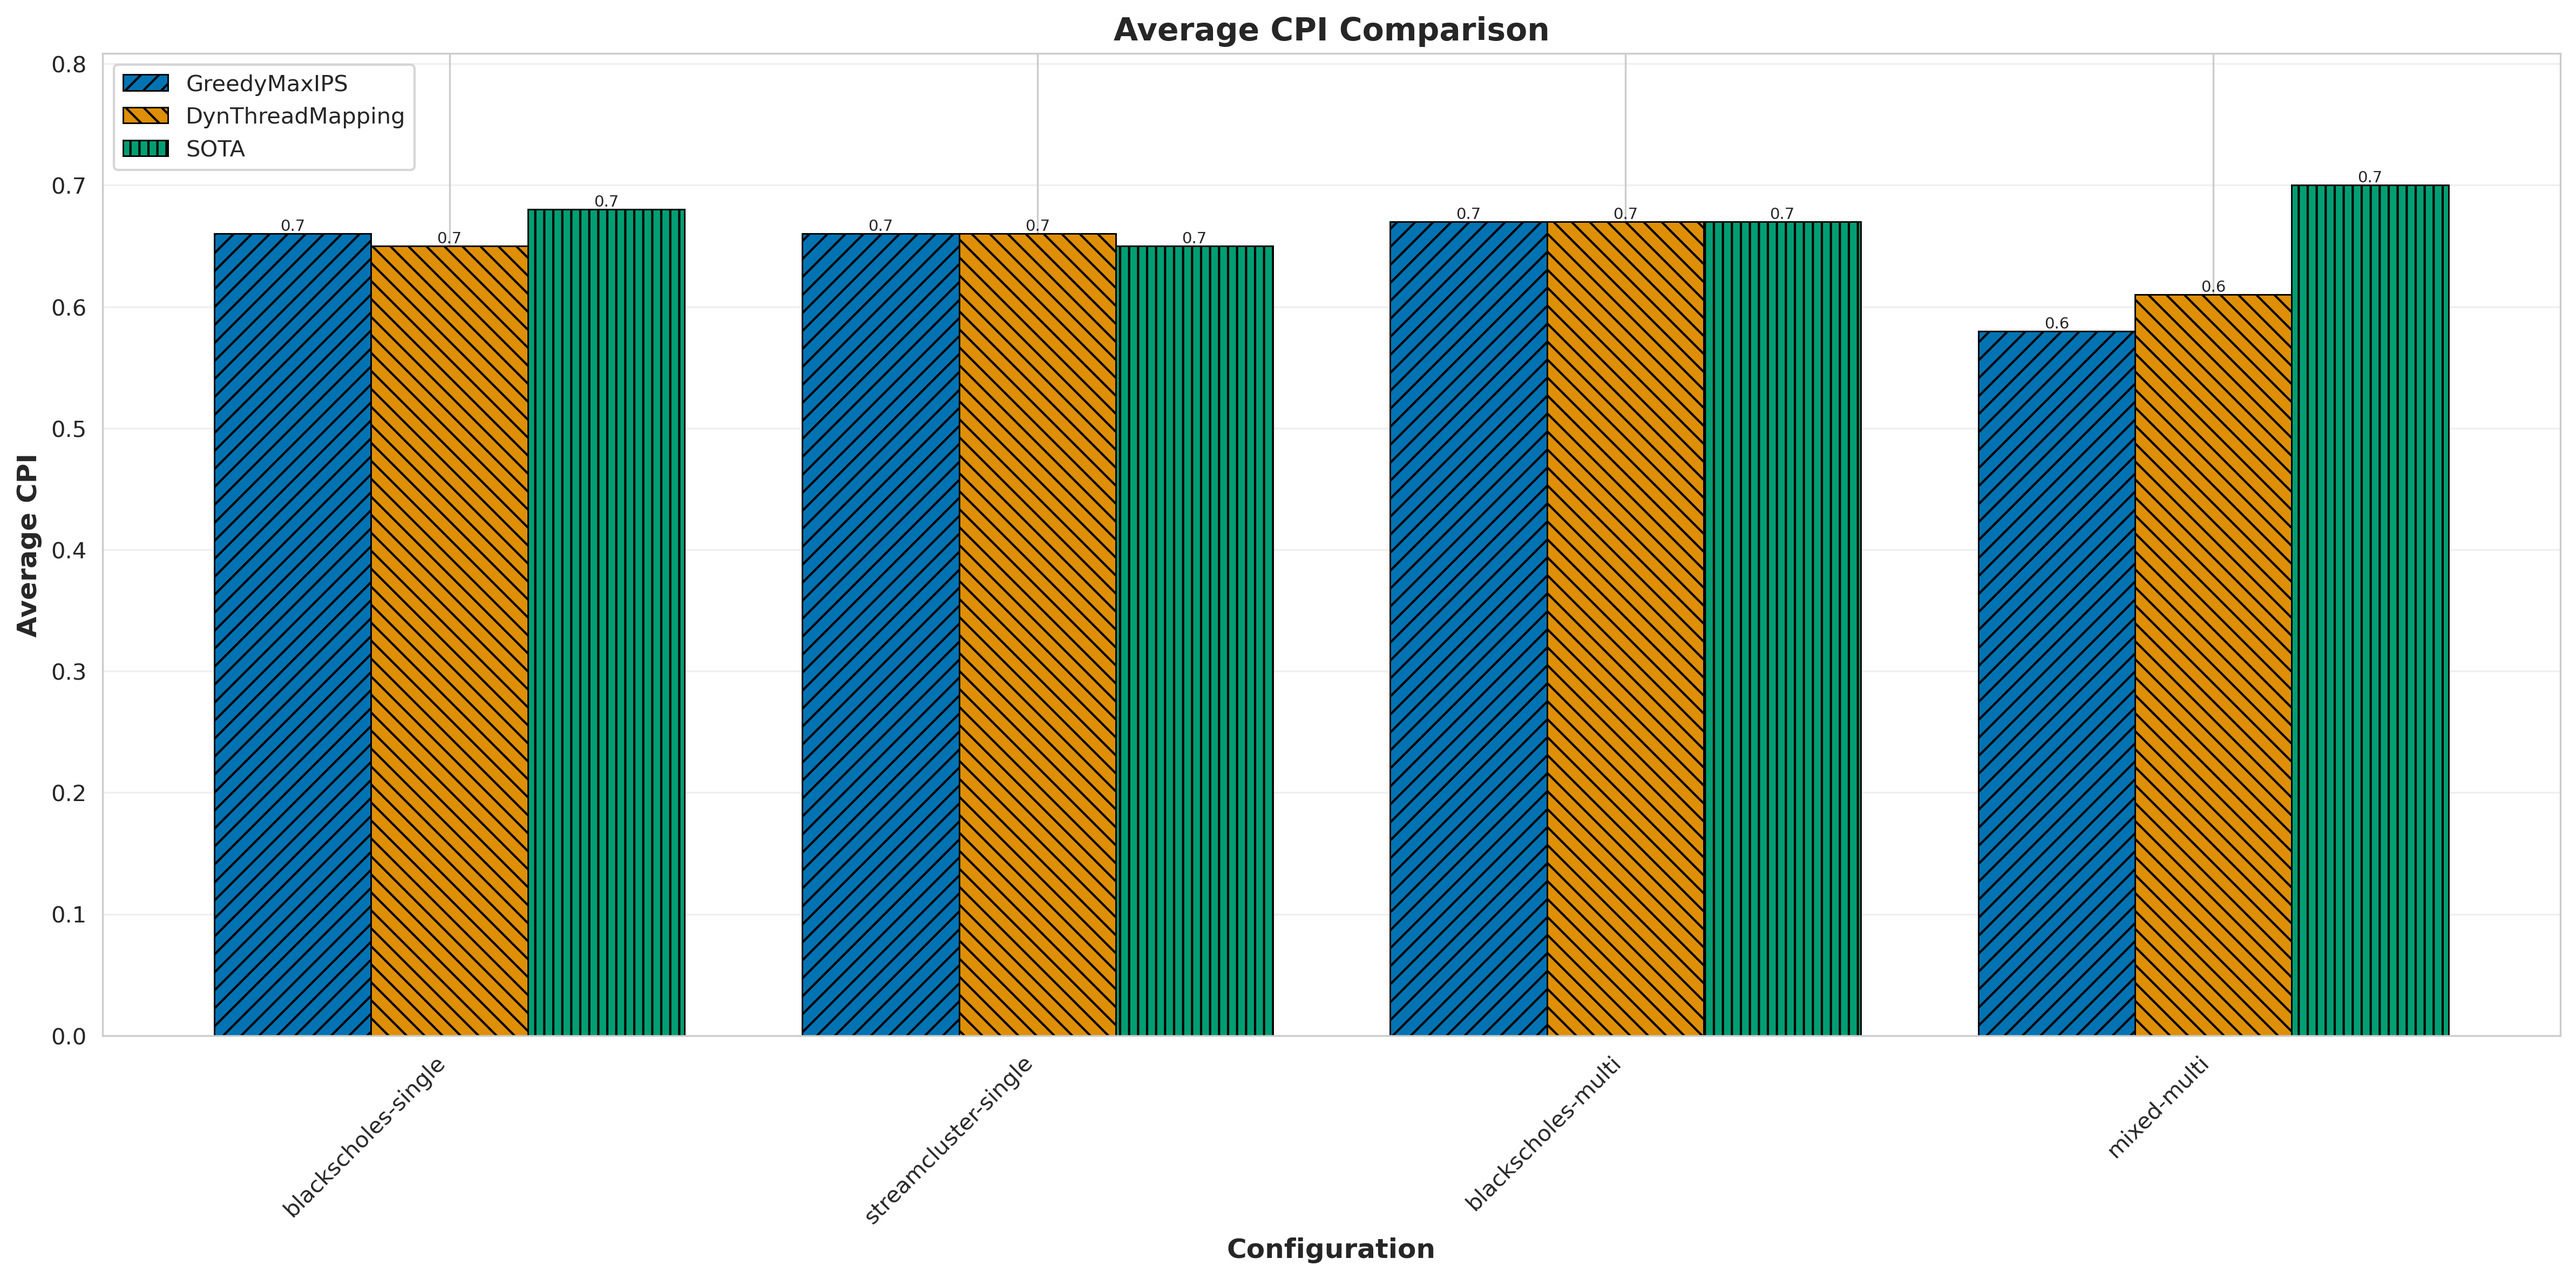
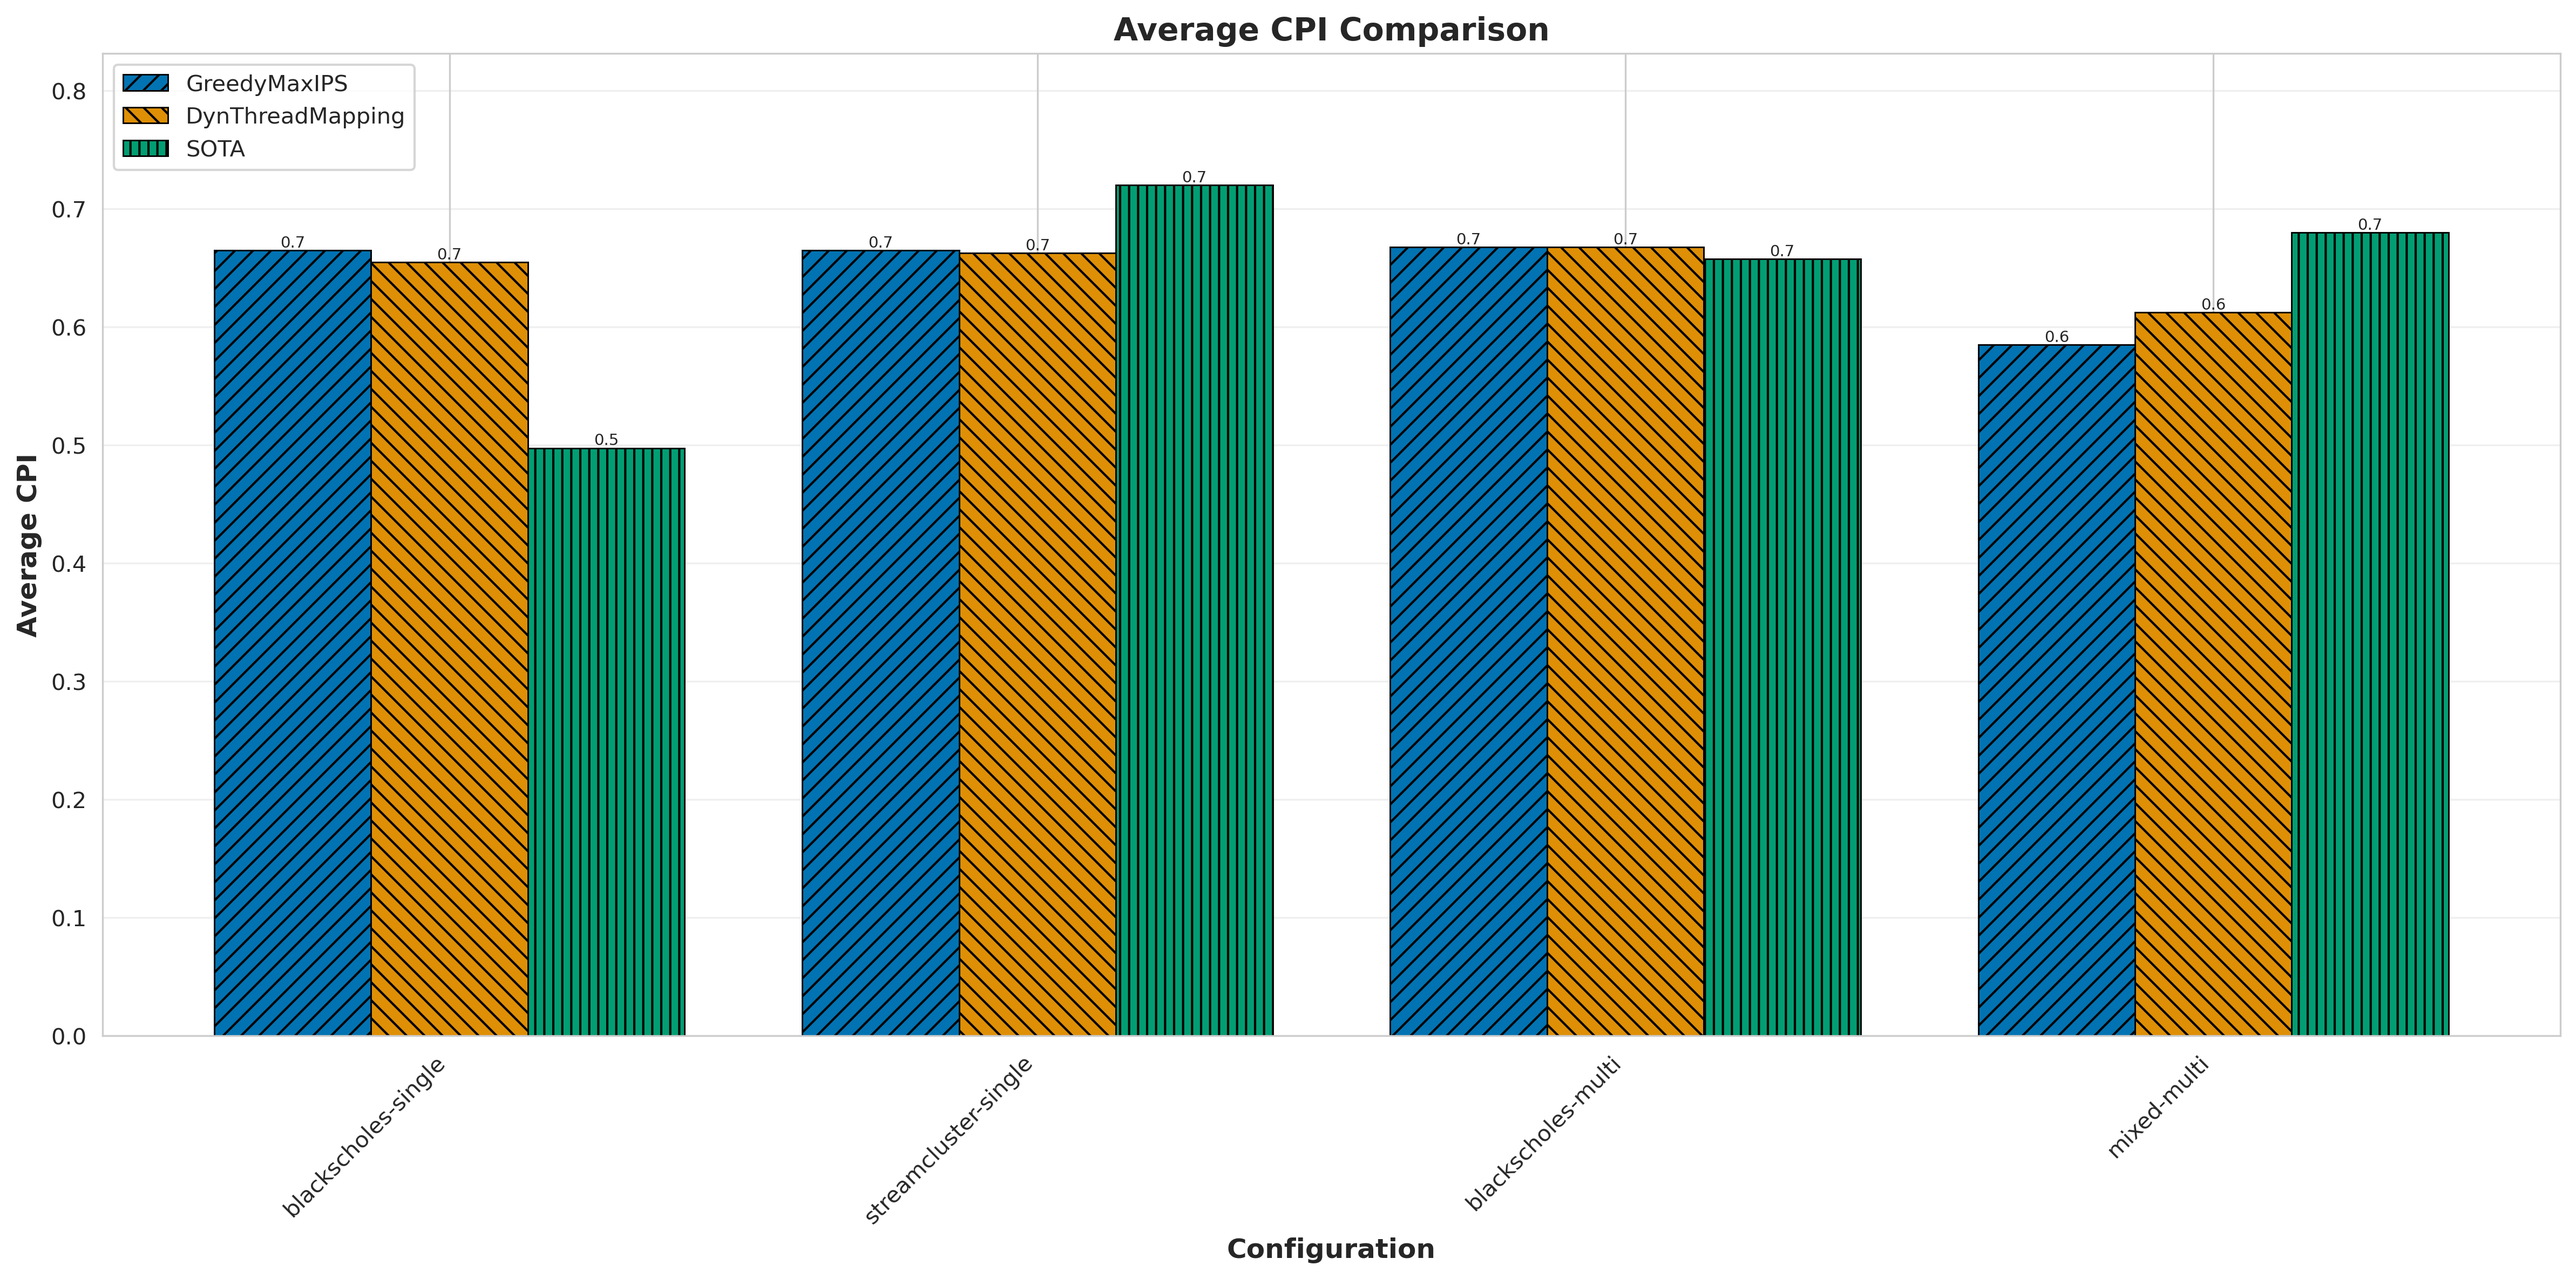
fixed plots

diff --git a/simulationcontrol/create_results_csv.py b/simulationcontrol/create_results_csv.py
@@ -109,15 +109,24 @@ def create_combined_csv(json_files, output_csv='experiment_results.csv'):
                             
                             elif metric_name == 'cpi':
                                 # Per-core CPI
+                                core_cpi_sum = 0
                                 for i in range(4):
-                                    row_data[f'cpi_C{i}'] = metric_data.get(f'C_{i}', 0)
-                                row_data['avg_cpi'] = metric_data.get('avg_workers', 0)
+                                    cpi_value = metric_data.get(f'C_{i}', 0)
+                                    row_data[f'cpi_C{i}'] = cpi_value
+                                    core_cpi_sum += cpi_value
+                                # Calculate average correctly by dividing by 4 (all cores)
+                                row_data['avg_cpi'] = core_cpi_sum / 4
                             
                             elif metric_name == 'ips':
                                 # Per-core IPS
+                                core_ips_sum = 0
                                 for i in range(4):
-                                    row_data[f'ips_C{i}_GIPS'] = metric_data.get(f'C_{i}', 0)
-                                row_data['avg_ips_GIPS'] = metric_data.get('avg_workers', 0)
+                                    ips_value = metric_data.get(f'C_{i}', 0)
+                                    row_data[f'ips_C{i}_GIPS'] = ips_value
+                                    core_ips_sum += ips_value
+                                # Calculate average correctly by dividing by 4 (all cores)
+                                row_data['avg_ips_GIPS'] = round(core_ips_sum / 4, 2)
+                                row_data['total_ips_GIPS'] = round(core_ips_sum, 2)
                 
                 all_rows.append(row_data)
                 run_id += 1
@@ -133,7 +142,7 @@ def create_combined_csv(json_files, output_csv='experiment_results.csv'):
     power_cols = [f'power_C{i}_W' for i in range(4)] + ['total_power_W']
     energy_cols = [f'energy_C{i}_J' for i in range(4)] + ['total_energy_J']
     cpi_cols = [f'cpi_C{i}' for i in range(4)] + ['avg_cpi']
-    ips_cols = [f'ips_C{i}_GIPS' for i in range(4)] + ['avg_ips_GIPS']
+    ips_cols = [f'ips_C{i}_GIPS' for i in range(4)] + ['avg_ips_GIPS', 'total_ips_GIPS']
     resp_cols = ['avg_response_time_ms']
     
     # Combine in logical order

diff --git a/simulationcontrol/create_graphs.py b/simulationcontrol/create_graphs.py
@@ -25,7 +25,8 @@ metrics = {
     'total_energy_J': 'Total Energy (J)',
     'total_power_W': 'Total Power (W)',
     'avg_cpi': 'Average CPI',
-    'avg_ips_GIPS': 'Average IPS (GIPS)'
+    'avg_ips_GIPS': 'Average IPS (GIPS)',
+    'total_ips_GIPS': 'Total IPS (GIPS)'
 }
 
 # Create a shortened task label
@@ -95,7 +96,7 @@ for metric_col, metric_name in metrics.items():
     plt.close()
 
 # Create a comprehensive comparison graph
-fig, axes = plt.subplots(2, 3, figsize=(22, 14))
+fig, axes = plt.subplots(3, 3, figsize=(24, 18))
 axes = axes.flatten()
 
 for idx, (metric_col, metric_name) in enumerate(metrics.items()):
@@ -126,6 +127,10 @@ for idx, (metric_col, metric_name) in enumerate(metrics.items()):
     ax.set_xticklabels(configs, rotation=45, ha='right', fontsize=7)
     ax.legend(fontsize=7, loc='best')
     ax.grid(axis='y', alpha=0.3)
+
+# Hide unused subplots
+for idx in range(len(metrics), len(axes)):
+    axes[idx].set_visible(False)
 
 plt.suptitle('Complete Performance Metrics Comparison', fontsize=16, fontweight='bold', y=0.995)
 plt.tight_layout(rect=[0, 0, 1, 0.99])
